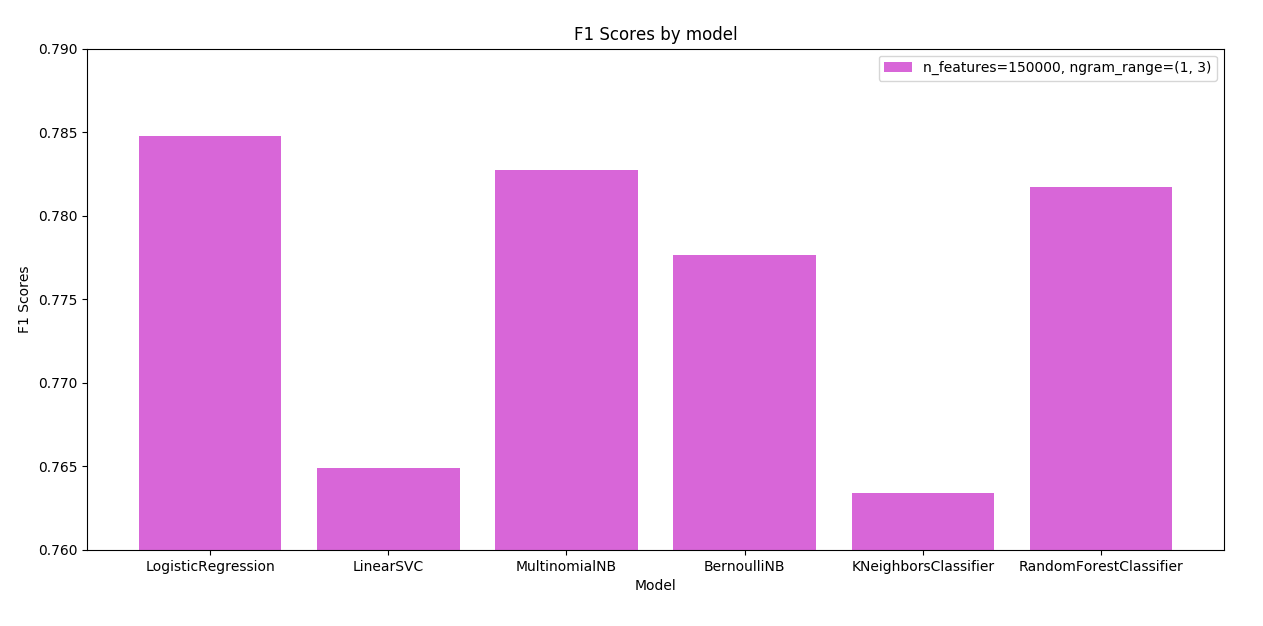
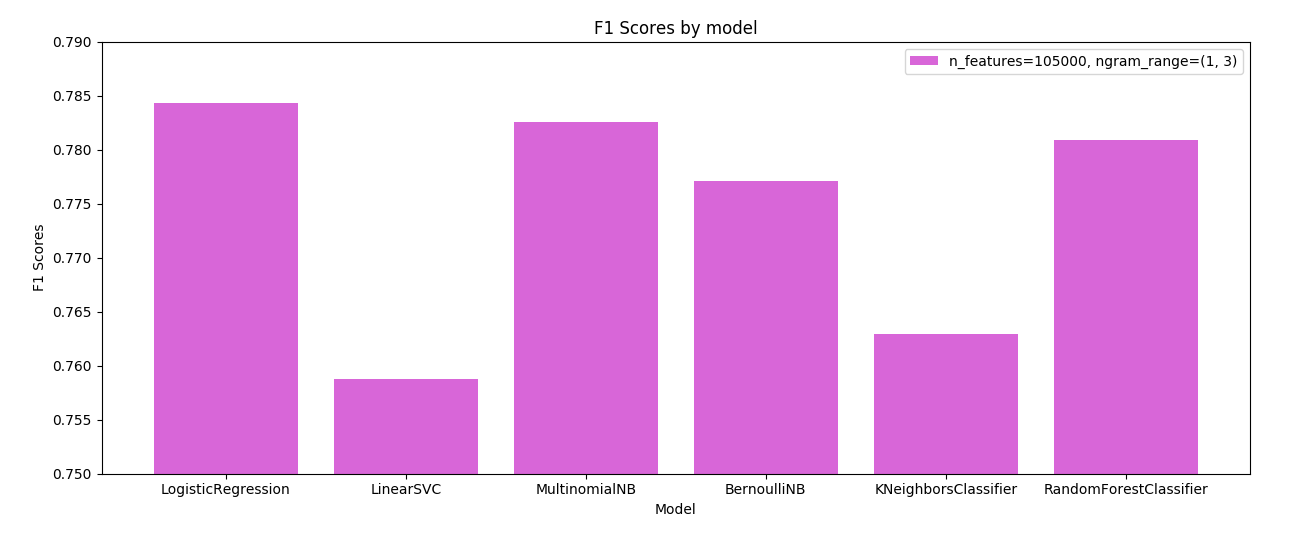
push because im scared that I'll lose this

diff --git a/methodology.tex b/methodology.tex
@@ -80,14 +80,14 @@ Each of the experiments are run with stratified k fold validation, with the data
 
 
 \subsection{Lexicon Analysis}
-
+\todo{do this}
 
 
 \subsection{Data Pre-processing (N-Gram and Feature selection)}
 
 Following Ricky Kim's investigations into semantic analysis \cite{towardsDS}, an investigation into optimising the format for the data input is carried out. 
 
-To be able to analyse the text, the CountVectorizer library is used to return a sparse matrix of the counts of each word in the input vocabulary. \todo{cite?}
+To be able to analyse the text, the sklearn CountVectorizer library is used to return a sparse matrix of the counts of each word in the input vocabulary. \cite{sklearn}
 
 From this we can limit the number of features that we can take, here the number of features is the number of most popular N-Grams, and we can set the N-Gram range easily. 
 
@@ -149,7 +149,7 @@ This value is just on the margin, but we will take it as enough evidence that tr
 To choose the models to compare, we will take the top models compared in previous sentiment analysis work \cite{towardsDS} and see which can work best in this situation.
 
 \begin{figure}[h]
-\caption{models}
+\caption{Graph showing the different F1 scores for varying types of classifier}
 \centering
 \includegraphics[scale=0.5]{graphs/models.png}
 \label{model:graph}
@@ -166,28 +166,77 @@ Using the Wilcoxon rank sum test with 90\% confidence interval, p = 0.02 so reje
 
 \subsection{Oversampling and Undersampling}
 
-To combat the large class imbalance, many machine learning models use oversampling and undersampling of the data. 
+To carry out the investigation of applying the oversampling and undersampling methods, the library functions in the imblearn API is used, which can be used in conjunction with the sklearn methods easily. 
+
+Since it is unclear whether these methods will actually improve the model, comparing against the model that we already have is necessary, and as we can see from Figure \ref{oversamplegraph}, using any oversampling methods actually decreases the F1 score by a significant amount. 
 
 
-
-
-\begin{figure}[h]
+\begin{figure}[ht]
 \caption{oversample}
 \centering
-\includegraphics[scale=0.6]{graphs/oversampling.png}
+\includegraphics[scale=0.7]{graphs/oversampling.png}
+\label{oversamplegraph}
 \end{figure}
 
-\begin{figure}[h]
+An explanation as to why this is happening is most likely a combination of using textual data, which is known to cause issues with oversampling methods, and the severity of the imbalance in the data. In the valence class, which is the one we are analysing at this point, the negative samples make up less than 10\% of the overall data and therefore many of the synthetic samples that are created will not make grammatical sense and be of poor quality. 
+
+
+The undersampling methods were known to not give promising results, but due to the issues with oversampling over such imbalance, briefly investigating this was something that could potentially have worked, but as shown in Figure \ref{undersamplegraph}, they all made the model perform significantly worse and hence can be disregarded.
+
+\begin{figure}[ht]
 \caption{undersample}
 \centering
-\includegraphics[scale=0.5]{graphs/undersample.png}
+\includegraphics[scale=0.7]{graphs/undersample.png}
+\label{undersamplegraph}
 \end{figure}
 
+\pagebreak
 
+\subsection{Final Model}
+
+The final model that was produced then had the following characteristics: 
+
+\begin{itemize}
+    \item The data was formatted into trigram tokens.
+    \item The most frequent 105,000 n-gram tokens were used as input features.
+    \item The classification model is Logistic Regression.
+    \item No oversampling or undersampling techniques were applied.
+\end{itemize}
+
+Which results in a model that has an average F1 score of 0.7843 (4 significant figures). 
 
 \subsection{Implementation}
 
-To create a useful implementation of the final model it has been 
+The simplest solution to provide an interface between the final produced semantic prediction model and the Spotify API is to create a web application. The final classification model was hosted on a very simple python server that takes text as an input, and returns whether it classes the text as Positive, Negative or Neutral for each Valence, Arousal or Dominance dimension. 
 
-\todo{structure of final system}
+The final solution, as shown in Figure \ref{implementationLayout} consists of three distinct hosted solutions, two of which access the API hosted by Spotify to access song data and authentication.
 
+The UI was chosen to be built in Angular.js and the music API with Node.js due to prior development knowledge, and hence ease of prototyping. 
+To ensure that any resultant song given back was one that the user could relate to, the song that is given back is taken from the users recent top songs. 
+The music API, built in Node.js is influenced by the structure of existing Spotify API projects \cite{moodtape}, is built mostly using the Node Package spotify-web-api-node \cite{nodeSpotify} which allows for ease of dealing with authenticating users, so that the users top songs can be accessed.
+
+\begin{figure}[ht]
+\caption{General layout of how the web application is structured.}
+\centering
+\includegraphics[scale=0.6]{litImgs/interfaceLayout.png}
+\label{implementationLayout}
+\end{figure}
+                
+
+Choosing how to relate the VAD values to the data returned by the Spotify was relatively arbitrary, and something that if there was more time could be investigated further. Since the song data returns a Valence value for the song, that is an easy relation, and it was chosen to map the Arousal to the "Energy" attribute, and the Dominance to the "Danceability", but this is something that can be improved upon as plenty of other data is also returned about the song which can be related to the three dimensions, such as relating the tempo and loudness of the songs.
+
+The main goal of the implementation is to attempt to relate an emotion which is subjective, to a song since that is also subjective so a decision was made to not show the user the VAD values, and just the result song to begin with. After the users reaction to the response song has been assessed, the calculated Ekmans emotion can be shown (calculated by the figures given in Table \ref{ekmansTable}) and discussed.
+
+\begin{figure}[ht]
+\caption{Layout of main UI page}
+\centering
+\includegraphics[scale=0.4]{litImgs/UIScreenshot.png}
+\label{UIlayout}
+\end{figure}
+
+\begin{figure}[ht]
+\caption{User activity through the application}
+\centering
+\includegraphics[scale=0.6]{litImgs/interfaceFlow.png}
+\label{implementationLayout}
+\end{figure}

diff --git a/litReview.tex b/litReview.tex
@@ -8,7 +8,7 @@ Many existing sentiment analysis tools are tailored towards market research for 
 
 There seems to be very little existing work which tries to use semantic analysis to predict more than just the valence of text, as most existing work is only considering how positive or negative the input is. Attempting to predict a more descriptive form of the emotion of the input will be a challenge.
 
-When analysing the positivity and negativity of tweets, using a lexicon based approach as well as machine learning approaches have been used \cite{kolchyna2015twitter} to great effect. In this case, a combination of the two has proved to be the most effective. Investigating whether these approaches work just as well when taking into account more than just the valence of the text will be the majority of the work on this project.
+When analysing the positivity and negativity of tweets, using a lexicon based approach as well as machine learning approaches have been used \cite{kolchyna2015twitter} to great effect. In this case, a combination of the two has proved to be the most effective. Investigating whether these approaches work just as well when taking into account more than just the valence of the text will be the majority of the work on this project. 
 
 Existing sentiment analysis research processes the data a large amount before any machine learning is done on it, for example by removing all the words which lie exactly in the middle of the valence scale.  \cite{kolchyna2015twitter} The different pre-processing methods will also be compared during this project.
 
@@ -36,7 +36,23 @@ The Valence-Arousal-Dominance (VAD) structure introduced in 1974 \cite{VAD} prov
     \item Dominance- Degree of control over a situation.
 \end{itemize}
 
-Using VAD values allow for easy representation into the Ekman six basic emotions, as although there is no standard on the exact VAD values to use for each emotion, the primary dataset that will be used references values given by Russell and Mehrabian \cite{VADMapping}.
+Using VAD values allow for easy representation into the Ekman six basic emotions, as although there is no standard on the exact VAD values to use for each emotion, the primary dataset that will be used references values given by Russell and Mehrabian \cite{VADMapping}, which are shown below (adjusted to be on a scale between 0 and 5):
+
+
+\begin{table}[ht]
+\caption{Ekmans emotions mapped to VAD values \cite{VADMapping}}
+\centering
+\begin{tabular}{ |c|c|c|c|c|c|c| } 
+ \hline
+  & Anger & Disgust & Fear & Happiness & Sadness & Surprise \\ 
+ \hline                        
+ Valence & 1.23 & 1 & 0.9 & 4.53 & 0.93 & 3.5\\ 
+ Arousal & 3.98 & 3.38 & 4 & 3.78 & 1.83 & 4.18\\ 
+ Dominance & 3.13 & 2.78 & 1.43 & 3.65 & 1.68 & 2.18\\ 
+ \hline
+\end{tabular}
+\label{ekmansTable}
+\end{table}
 
 Using the VAD structure to represent sentiment in this project was ideal, as it allows for much more description of emotion in text \cite{emotionPerspective}, and having numeric values means its easy to work with.
 
@@ -86,9 +102,9 @@ Previous work tends to avoid using computationally expensive approaches such as 
 
 \subsection{Over and Undersampling}
 
-Due to the imbalance of data across the Emobank dataset, trying to mitigate the effects of this is a challenge that has different ways of being tacked, and one common way of doing this is through oversampling the minority classes in the data to create a more balanced dataset. 
+Due to the imbalance of data across the Emobank dataset, trying to mitigate the effects of this is a challenge that has different ways of being tacked, and one common way of doing this is through oversampling the minority classes in the data to create a more balanced dataset. \cite{towardsDS}
 
-Since manually inputting more data into the dataset would take more time than is sensible, the most common way to oversample the data that we are given is through SMOTE (Synthetic Minority Oversampling Technique). This uses a k nearest neighbours approach to create synthetic data of the existing samples in the dataset, and has been shown to have positive results with general machine learning tasks but has been known to be problematic with textual data due to not actually creating synthetic samples which make logical sense. Investigating this method is worthwhile, although the expected results are fairly unknown.
+Since manually inputting more data into the dataset would take more time than is sensible, the most common way to oversample the data that we are given is through SMOTE (Synthetic Minority Oversampling Technique). This uses a k nearest neighbours approach to create synthetic data of the existing samples in the dataset, and has been shown to have positive results with general machine learning tasks but has been known to be problematic with textual data due to not actually creating synthetic samples which make logical sense. Investigating this method is worthwhile, although the expected results are fairly unknown as it depends heavily on the data in the minority classes.
 
 There are other popular oversampling techniques that exist as well, for example just randomly re-sampling the minority class, as well as ADASYN (Adaptive Synthetic Sampling) which is a a form of a SMOTE oversampler which works better for classifiers without clear class boundaries.
 

diff --git a/discussion.tex b/discussion.tex
@@ -1,0 +1,11 @@
+\section{Results and Discussion}
+\begin{itemize}
+    \item How can textual sentiment prediction be optimised?
+    \item Does using more than 1 dimension to classify emotions provide more insight, and how can this be quantified?
+\end{itemize}
+
+\todo{mosaic plot, adjusting the score}
+
+To be able to evoke enough emotive text from a user, the UI states "Please describe how your week is going so far. Be as detailed as possible.". This was arbitrarily chosen, and 
+
+\subsection{Further Work}

diff --git a/body.tex b/body.tex
@@ -1,11 +1,8 @@
 
 \input{litReview.tex}
- 
+\pagebreak
 \input{methodology.tex}
+\pagebreak
+\input{discussion.tex}
+\pagebreak
 
-\section{Results and Discussion}
-\begin{itemize}
-    \item How can textual sentiment prediction be optimised?
-    \item Does using more than 1 dimension to classify emotions provide more insight, and how can this be quantified?
-\end{itemize}
-\subsection{Further Work}
